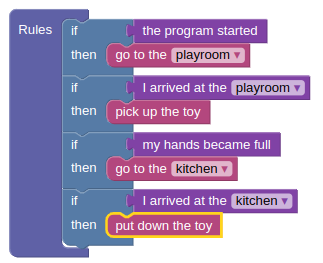
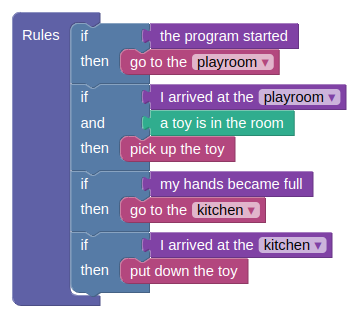
updates to TAP tutorial to include if and block

diff --git a/task_tutorials_1.html b/task_tutorials_1.html
@@ -225,13 +225,13 @@
     var tutorial_texts = ["To begin, let's take a look at the environment our robot will be operating in. The interface on the left displays a visual representation of three rooms in a house: the bedroom, kitchen, and playroom. This is where the robot will be navigating and performing its tasks.",
      "The right half of the interface is where you can program the robot. ",
      "The robot is designed to sense and react based on the rules you provide in the programming interface. The robot performs actions by detecting changes, such as its arrival in the kitchen or its hands grasping objects.",
-     "Now, let's program to move the robot from the bedroom to the kitchen. To do this, <ol> <li> click on the \"Controls\" tab and drag the piece labeled \"If then\" and attach it to the \"Rules\" block found in the programming interface.</li> <li> Next, click on the \"Events\" tab and drag the piece labeled \"program started\" and attach it to the \"If then\" block in the Rules block.</li> <li> Next, from the \"Actions\" tab, drag the \"Go to <b>kitchen</b>\" piece and attach it to the \"If program starts\" piece. This will create a sequence of actions that will guide the robot to move from the bedroom to the kitchen. </li></ol>",
+     "Now, let's program to move the robot from the bedroom to the kitchen. To do this, <ol> <li> Click on the \"Controls\" tab and drag the piece labeled \"If then\" and attach it to the \"Rules\" block found in the programming interface.</li> <li> Next, click on the \"Events\" tab and drag the piece labeled \"program started\" and attach it to the \"If then\" block in the Rules block.</li> <li> Next, from the \"Actions\" tab, drag the \"Go to <b>kitchen</b>\" piece and attach it to the \"If program starts\" piece. This will create a sequence of actions that will guide the robot to move from the bedroom to the kitchen. </li></ol>",
      "If your program looks like the image on the right,<br> then press the \"Run Program\" button to see your program running.", 
-     "Now let's work on a second task. In this task you will program the robot to move the toy from the playroom to the kitchen. To do this, <ol> <li>First remove the \"Go to kitchen\" piece added to the \"Rules\" block by dragging it to the trash found on the bottom right corner</li><li> Next, from the \"Actions\" tab, drag the \"Go to <b>kitchen</b>\" piece and attach it to the \"If program starts block\" piece. Change the room from kitchen to <b>playroom</b> by choosing from the drop down menu on the piece you just attached.</li></ol>",
-      "Next, you need to program the robot to pick up the toy once it gets to the playroom. <ol><li> First, you will need to have the robot check if it has reached the playroom before it tries to pick up the toy. To ensure that the robot executes each action appropriately, it is necessary to incorporate checks like these for every desired action. This is because the robot is designed to carry out actions only when it detects changes. Click on the Controls tab and drag the \"if and then\" piece and attach it to the Rules below the \"If program starts\" block. Now drag the \"I arrived at the playroom\" piece from Events tab and attach it next to if. Then, click on the States tab and drag \"a toy is in the room\" and attach it next to <b>and</b>. This block would help the robot check if there is a toy in the bedroom as soon as it gets to the room. When this is satisfied, the robot needs to pick up the toy. For that, drag the \"pick up the toy\" piece from actions and attach it next to <b>then</b></li>\
-      <li>Once that is done, you will need to have the robot check if it successfully picked up the toy before it moves to the kitchen. Click on the Controls tab and drag the \"if and then\" piece and attach it to the Rules below the last two blocks. Then from the Events tab drag \"My hands became full\" attach it to the new \"if and then\" piece.</li>\
-      <li>Click on the Actions tab and drag the \"go to the kitchen\" action. and place inside the if block. This will finalize the action to be performed once the toy is picked up.</li>\
-      <li>Once the robot gets to the kitchen it needs to put down the toy. For that we drag the \"if then\" block and check \"I have arrived at the <kitchen>\" condition and add the \"put down the toy\" action.</li>\</ol>",
+     "Now let's work on a second task. In this task you will program the robot to move the toy from the playroom to the kitchen. To do this, <ol> <li>First remove the \"Go to kitchen\" piece added to the \"Rules\" block by dragging it to the trash found on the bottom right corner</li><li> Next, from the \"Actions\" tab, drag the \"Go to <b>kitchen</b>\" piece and attach it to the \"If program starts \". Change the room from kitchen to <b>playroom</b> by choosing from the drop down menu on the piece you just attached.</li></ol>",
+      "Next, you need to program the robot to pick up the toy once it gets to the playroom. <ol start=3><li> you will need to have the robot check if it has reached the playroom before it tries to pick up the toy. To ensure that the robot executes each action appropriately, it is necessary to incorporate checks like these for every desired action. This is because the robot is designed to carry out actions only when it detects changes. Click on the Controls tab and drag the \"if and then\" piece and attach it to the Rules below the \"If program starts\" block.</li> <li>Now drag the \"I arrived at the playroom\" piece from Events tab and attach it next to if. Then, click on the States tab and drag \"a toy is in the room\" and attach it next to <b>and</b>. This block would help the robot check if there is a toy in the bedroom as soon as it gets to the room. When this is satisfied, the robot needs to pick up the toy. For that, drag the \"pick up the toy\" piece from actions and attach it next to <b>then</b></li></ol>",
+      "<ol start=5><li>Once that is done, you will need to have the robot check if it successfully picked up the toy before it moves to the kitchen. Click on the Controls tab and drag the \"if then\" piece and attach it to the Rules below the last two blocks. Then from the Events tab drag \"My hands became full\" attach it to the new \"if then\" piece. This piece helps the robot check if it is holding a toy.</li>\
+      <li>Click on the Actions tab and drag the \"go to the kitchen\" action. and place it inside the newly added if block. This will finalize the action to be performed once the toy is picked up.</li>\
+      <li>Next you should program it to put down the toy as soon as it gets to the kitchen. To do that drag the \"if then\" block and check \"I have arrived at the <kitchen>\" condition and add the \"put down the toy\" action.</li>\</ol>",
      "If your program looks like the image on the right, <br> then press the \"Run Program\" button to see your program running."
     ];
 
@@ -275,7 +275,7 @@
             document.getElementById('bear').style.visibility = 'visible';
         }
 
-        else if(next_ctr == 7){
+        else if(next_ctr == 8){
             var elem = document.createElement("img");
             elem.src = 'tutorial/sol_02.png';
             document.getElementById('img_div').appendChild(elem);
